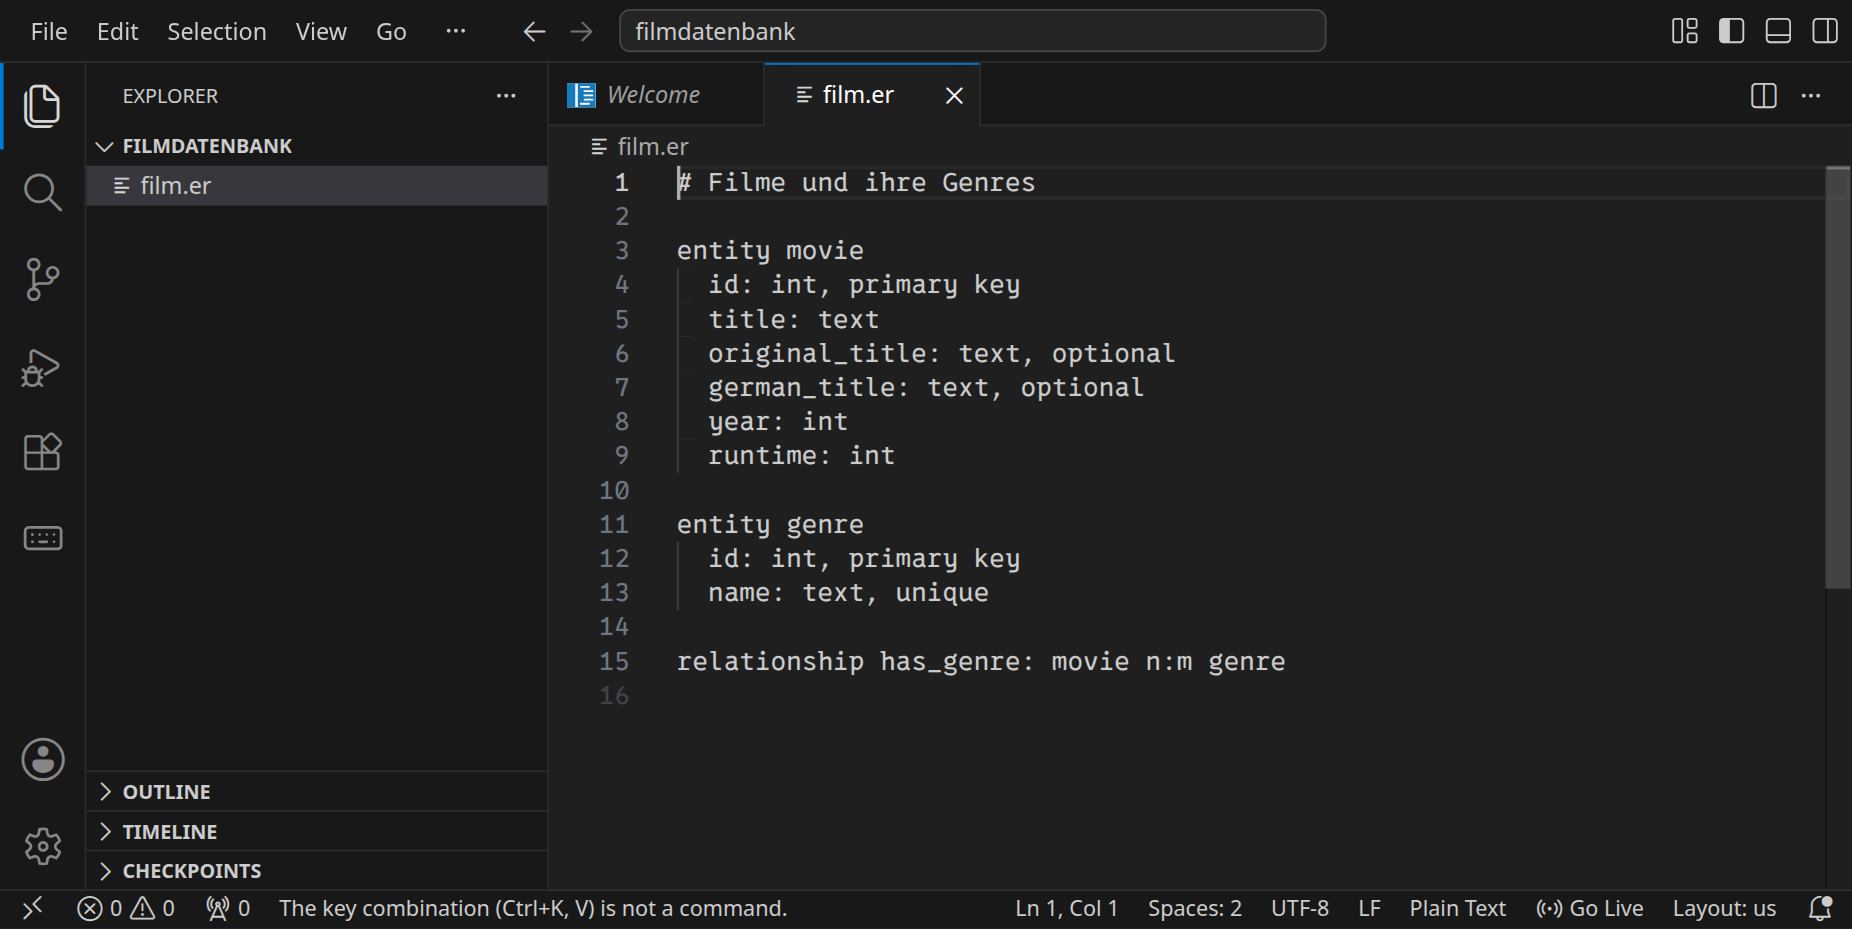
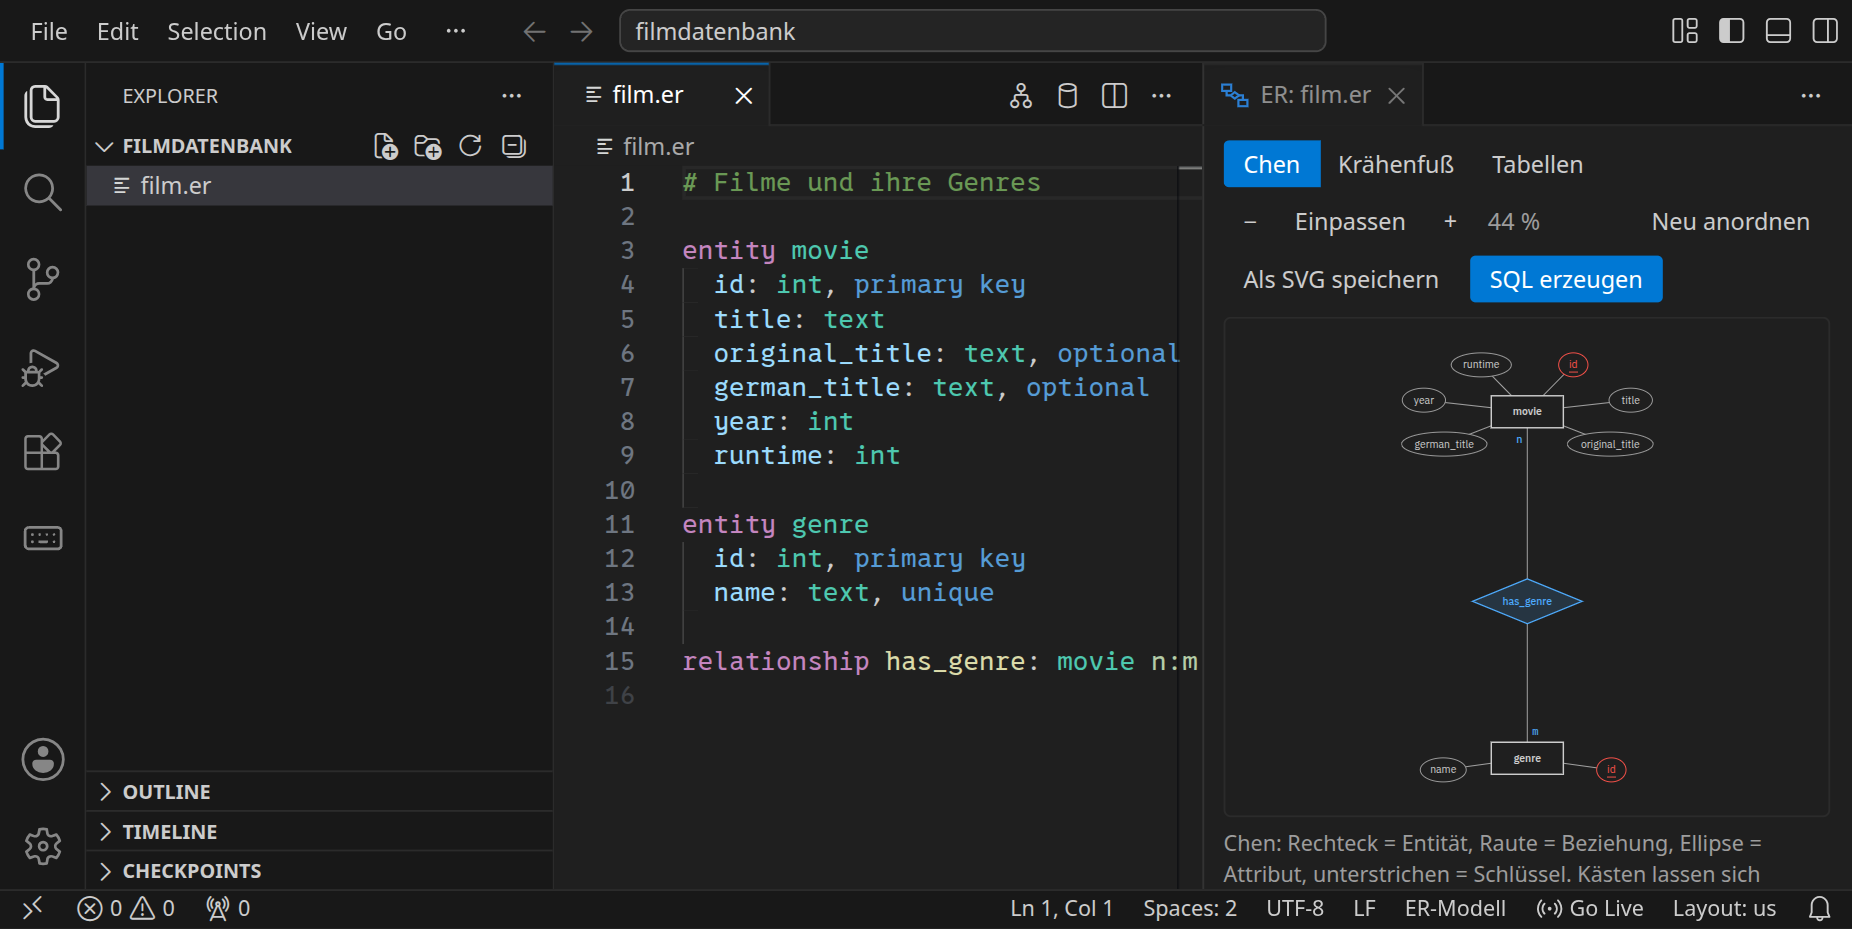
Filmdatenbank: queries in mycli, ER preview renders, data matches
- SHOW TABLES now runs in mycli; mysql is only for imports. The text
  says when to leave mycli for an import and when to start it again.
- er-preview.webp shows the diagram (it was an empty pane), without the
  Welcome tab.
- show-tables.webp: mycli keeps eight rows free below its prompt and
  scrolled the query away; the shot gets a slightly taller viewport.
- The example record matches the data (id 233, 115 minutes, three
  genres), and the text explains the OK lines after the import.

diff --git a/src/content/filmdatenbank/filmdatenbank.md b/src/content/filmdatenbank/filmdatenbank.md
@@ -21,12 +21,12 @@ So könnte ein Film aussehen, wenn ein Programm ihn als JSON verschickt:
 
 ```json
 {
-  "id": 1207,
+  "id": 233,
   "title": "Back to the Future",
   "german_title": "Zurück in die Zukunft",
   "year": 1985,
-  "runtime": 116,
-  "genres": ["Comedy", "Sci-Fi"],
+  "runtime": 115,
+  "genres": ["Adventure", "Comedy", "Sci-Fi"],
   "crew": {
     "director": ["Robert Zemeckis"],
     "actor": ["Michael J. Fox", "Christopher Lloyd", "Lea Thompson"],
@@ -105,13 +105,15 @@ Klicke oben rechts im Editor auf »ER-Diagramm anzeigen« (oder <kbd>Strg</kbd><
 press: Enter
 wait-for-text: create it
 press: Enter
-sleep: 1
-click: Next Up
+wait-for-text: FILMDATENBANK
 write-file: filmdatenbank/film.er <- previous-code
 open-file: film.er
+close-tab: Welcome
+left-sidebar-width: 260
 press: Control+K
 press: v
-sleep: 2
+wait-for-text: Neu anordnen
+sleep: 1
 -->
 
 <img class='full' src='er-preview.webp' alt='Links das Modell film.er im Editor, rechts die ER-Werkstatt mit dem Chen-Diagramm von movie und genre.'>
@@ -201,7 +203,15 @@ ALTER TABLE movie_genre
 mysql < film.sql
 ```
 
-Wenn alles klappt, gibt `mysql` nichts aus.
+Wenn alles klappt, gibt `mysql` nichts aus. Ob die Tabellen da sind, siehst du in `mycli`. Starte es und gib `SHOW TABLES;` ein:
+
+```bash
+mycli
+```
+
+```sql
+SHOW TABLES;
+```
 
 <!-- tutorial-screenshot
 click: selector:.editor-actions a[aria-label="SQL erzeugen"]
@@ -212,23 +222,32 @@ terminal-maximize
 terminal-run: clear
 terminal-run: mysql < film.sql
 terminal-wait-for-prompt
-terminal-run: mysql -e 'SHOW TABLES'
-terminal-wait-for-prompt
+terminal-run: mycli
+wait-for-text: student>
+press: Control+L
+type: SHOW TABLES;
+press: Enter
+wait-for-text: 3 rows in set
+# mycli keeps 8 rows free below its prompt and scrolls the query away if the terminal is too short
+viewport: 1853x1000
 crop-terminal-lines: auto
+crop-terminal-skip-bottom: 1
 -->
 
-<img class='full' src='show-tables.webp' alt='Im Terminal zeigt mysql -e "SHOW TABLES" die Tabellen genre, movie und movie_genre.'>
+<img class='full' src='show-tables.webp' alt='In mycli zeigt SHOW TABLES die Tabellen genre, movie und movie_genre.'>
 
 _task(tabellen-filme)
 
 ## Filmdaten laden
 
-Die Tabellen sind angelegt, aber leer. Lade die Filme, Genres und ihre Zuordnungen herunter und gib sie an MySQL:
+Die Tabellen sind angelegt, aber leer. Beende `mycli` mit `exit` oder <kbd>Strg</kbd><kbd>D</kbd>. Lade dann die Filme, Genres und ihre Zuordnungen herunter und gib sie an MySQL:
 
 ```bash
 wget https://github.com/specht/workspace-files/raw/main/movie-archive/mysql-data-movies.sql
 mysql < mysql-data-movies.sql
 ```
+
+Am Ende meldet MySQL für jede der drei Tabellen `OK`: Es hat sich angesehen, was jetzt darin steht, damit spätere Abfragen schnell sind.
 
 Schau dir `mysql-data-movies.sql` ruhig an. Es sind lauter `INSERT`-Befehle, und jeder nennt die Spalten, in die er schreibt, zum Beispiel `INSERT INTO movie (id, title, original_title, …)`. Deshalb müssen die Namen in deinem Modell genau stimmen. Meldet MySQL `Unknown column` oder `Table … doesn't exist`, vergleiche die Namen in `film.er` mit der Meldung, erzeuge das SQL neu und fang mit `mysql < film.sql` wieder an.
 
@@ -238,7 +257,7 @@ Die Filme stammen aus <a href='https://www.wikidata.org/'>Wikidata</a>, einer fr
 
 _task(daten-filme)
 
-Starte `mycli` und sieh dich um, wie in der »Einführung in SQL«:
+Starte wieder `mycli` und sieh dich um, wie in der »Einführung in SQL«:
 
 ```sql
 SELECT * FROM movie LIMIT 5;
@@ -337,7 +356,7 @@ In der Tabellenansicht siehst du `movie_crew` mit drei Fremdschlüsseln, die zus
 
 _task(modell-crew)
 
-Erzeuge das SQL neu und lege die Tabellen an. Weil `film.sql` mit `DROP TABLE` beginnt, sind danach auch `movie` und `genre` wieder leer. Lade deshalb beide Datendateien:
+Erzeuge das SQL neu, beende `mycli` und lege die Tabellen an. Weil `film.sql` mit `DROP TABLE` beginnt, sind danach auch `movie` und `genre` wieder leer. Lade deshalb beide Datendateien:
 
 ```bash
 wget https://github.com/specht/workspace-files/raw/main/movie-archive/mysql-data-crew.sql
@@ -354,7 +373,7 @@ _task(tabellen-crew)
 
 ## Durch mehrere Beziehungen zu einer Person
 
-Wer hat bei »Back to the Future« Regie geführt? Im Tabellendiagramm führt der Weg von `movie` über `movie_crew` zu `crew`, und die Tätigkeit steht in `job`. Jeder Schritt wird ein `JOIN`:
+Starte wieder `mycli`. Wer hat bei »Back to the Future« Regie geführt? Im Tabellendiagramm führt der Weg von `movie` über `movie_crew` zu `crew`, und die Tätigkeit steht in `job`. Jeder Schritt wird ein `JOIN`:
 
 ```sql
 SELECT crew.name
